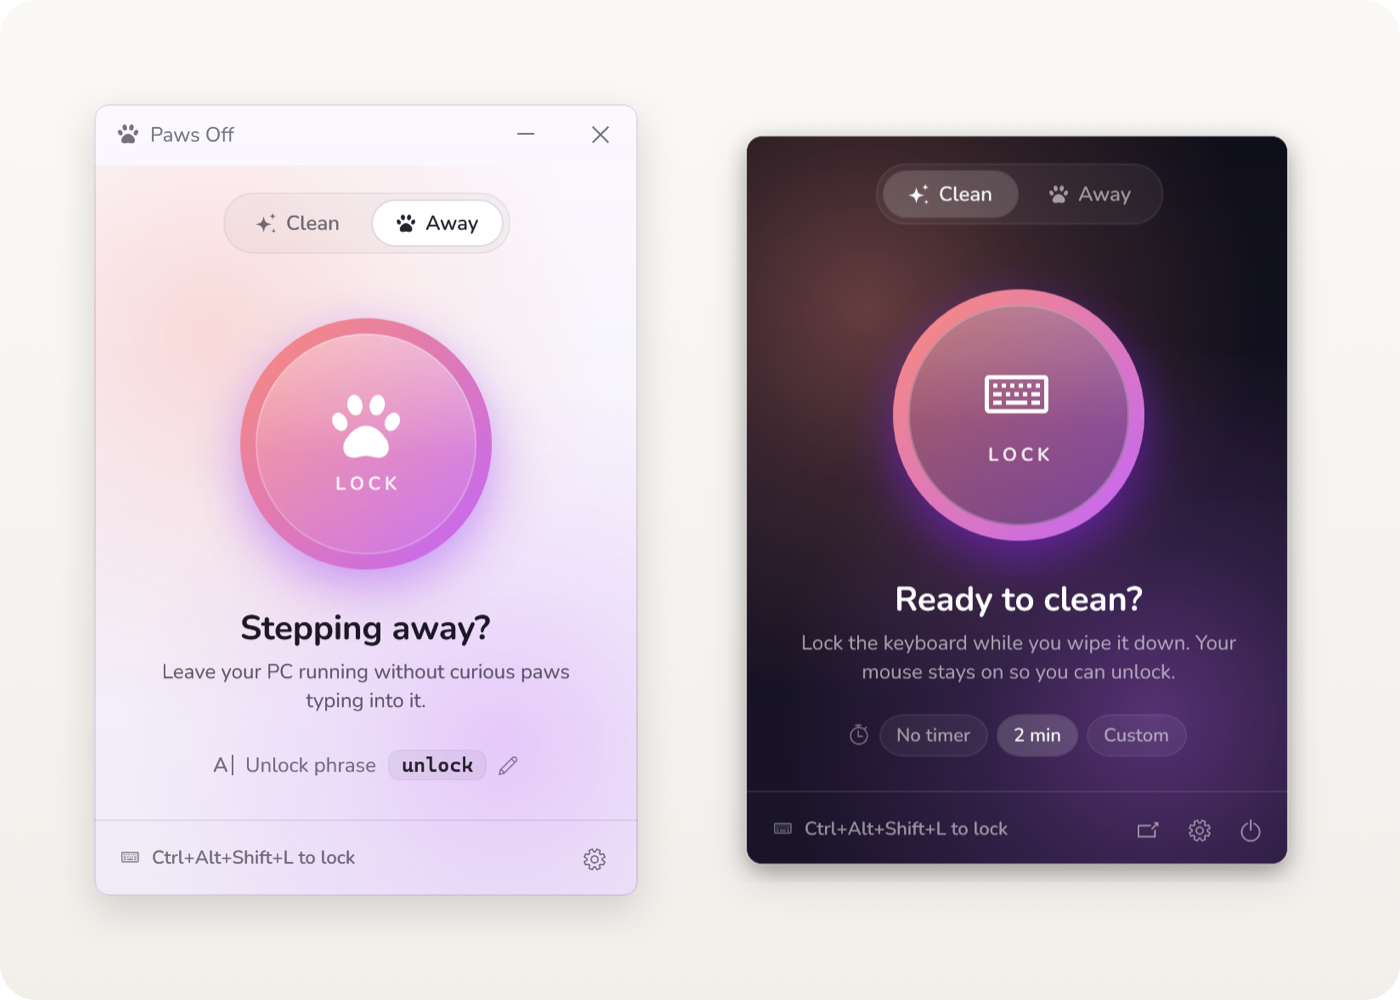
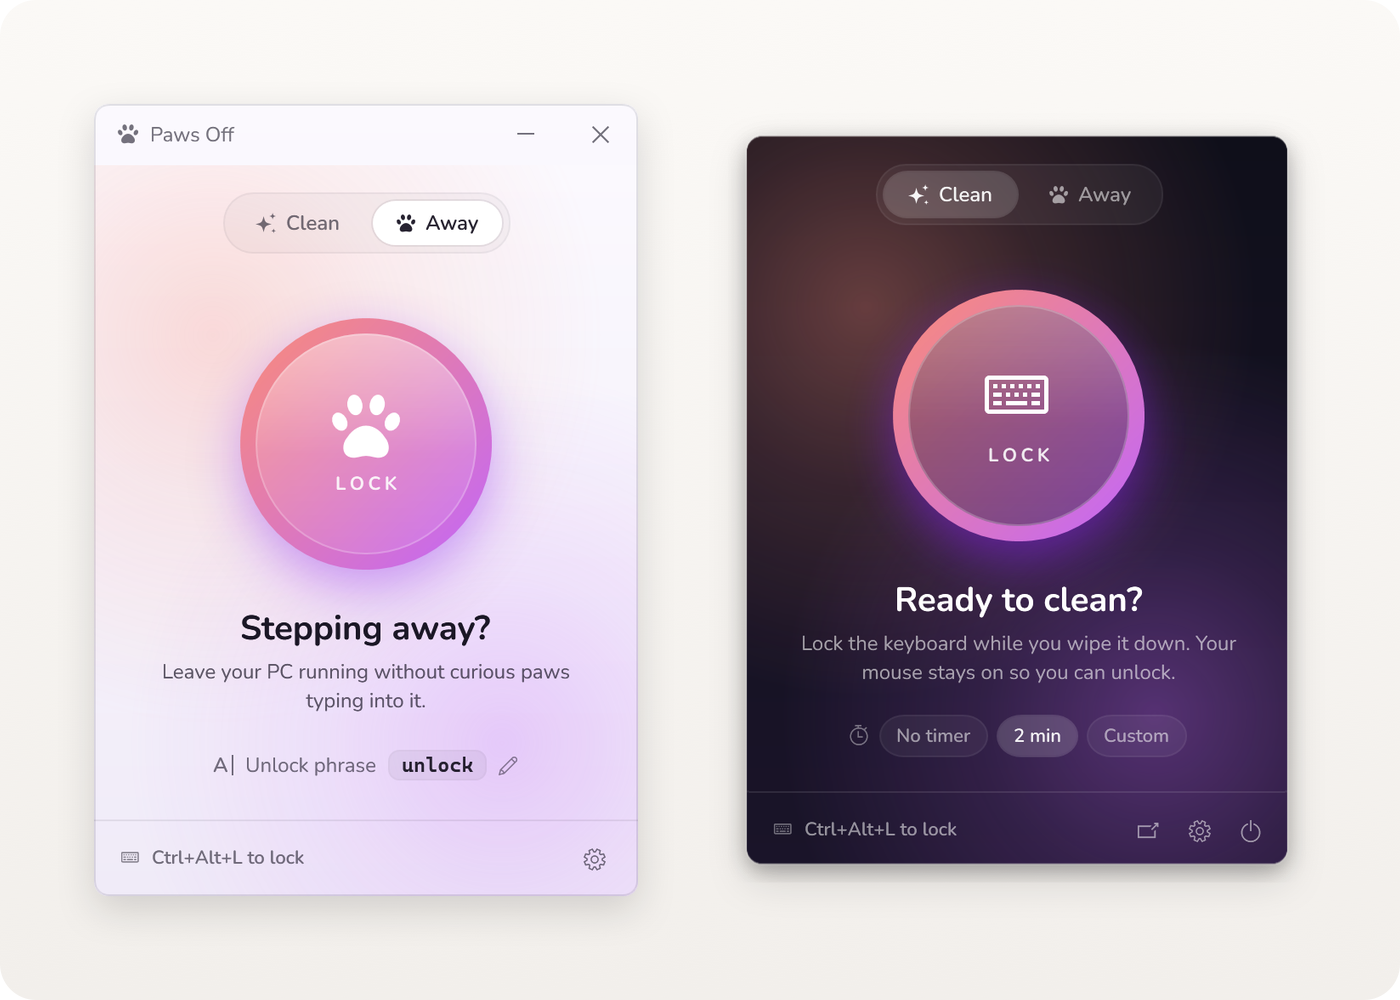
Notarized by Apple on the website and in the README; screenshots show the new shortcut

diff --git a/site/index.html b/site/index.html
@@ -62,6 +62,10 @@
   .dl small { color: rgba(255, 255, 255, .7); font-weight: 600; }
   @media (prefers-color-scheme: dark) { .dl { background: #F3F0F8; color: #1B1726; } .dl svg { fill: #1B1726; } .dl small { color: rgba(27, 23, 38, .6); } .dl.win { background: #0B63C9; color: #fff; } .dl.win svg { fill: #fff; } .dl.win small { color: rgba(255, 255, 255, .75); } }
   .or { color: var(--soft); font-size: 14px; margin-top: 22px; text-align: center; }
+  .trust { display: flex; align-items: center; justify-content: center; gap: 8px; margin: 16px 0 0; color: var(--soft); font-size: 15px; }
+  .trust svg { width: 18px; height: 18px; color: var(--coral); flex: none; }
+  .trust strong { color: var(--ink); }
+  .trust + .hint { margin-top: 4px; }
 
   .hero { margin: 36px auto 0; }
 
@@ -129,7 +133,7 @@
       </div>
       <div class="panel" id="p-mac" role="tabpanel">
         <div class="cmd"><code>curl -fsSL https://enigmaticzee.github.io/PawsOff/install.sh | bash</code><button>Copy</button></div>
-        <p class="hint">Paste into Terminal. It installs Paws Off into Applications and opens it, without the "Open Anyway" step (it isn't notarized by Apple yet). <a href="install.sh">See what the command does</a>.</p>
+        <p class="hint">Paste into Terminal. It installs Paws Off into Applications and opens it. <a href="install.sh">See what the command does</a>.</p>
       </div>
       <div class="panel" id="p-win" role="tabpanel" hidden>
         <div class="cmd"><code>irm https://enigmaticzee.github.io/PawsOff/install.ps1 | iex</code><button>Copy</button></div>
@@ -137,7 +141,7 @@
       </div>
       <div class="panel" id="p-brew" role="tabpanel" hidden>
         <div class="cmd"><code>brew install --cask enigmaticzee/tap/paws-off</code><button>Copy</button></div>
-        <p class="hint">Then open Paws Off once from Applications and click <strong>Open Anyway</strong> in System Settings → Privacy &amp; Security. Paws Off updates itself after that.</p>
+        <p class="hint">Then open Paws Off from Applications. It updates itself after that.</p>
       </div>
     </div>
     <p class="or">or download it</p>
@@ -145,7 +149,8 @@
       <a class="dl" href="https://github.com/EnigmaticZee/PawsOff/releases/latest/download/PawsOff-mac.dmg"><svg viewBox="0 0 24 24" aria-hidden="true"><path d="M16.37 12.6c-.03-2.7 2.2-4 2.3-4.07-1.26-1.83-3.21-2.08-3.9-2.11-1.66-.17-3.24.98-4.08.98-.85 0-2.14-.96-3.52-.93-1.81.03-3.48 1.05-4.41 2.67-1.88 3.26-.48 8.08 1.35 10.73.9 1.29 1.96 2.75 3.36 2.7 1.35-.05 1.86-.87 3.49-.87 1.63 0 2.09.87 3.51.84 1.45-.03 2.37-1.32 3.26-2.62 1.03-1.5 1.45-2.95 1.47-3.03-.03-.01-2.82-1.08-2.85-4.29zM13.7 4.67c.74-.9 1.24-2.15 1.11-3.39-1.07.04-2.36.71-3.13 1.61-.69.8-1.29 2.07-1.13 3.29 1.19.09 2.41-.61 3.15-1.51z"></path></svg>Download for Mac <small>.dmg</small></a>
       <a class="dl win" href="https://github.com/EnigmaticZee/PawsOff/releases/latest/download/PawsOff-Windows-Setup.exe"><svg viewBox="0 0 24 24" aria-hidden="true"><path d="M2 4.3l8.2-1.1v7.9H2zm9.2-1.3L22 1.5v9.6H11.2zM2 12.1h8.2V20L2 18.9zm9.2 0H22v9.4l-10.8-1.5z"></path></svg>Download for Windows <small>.exe</small></a>
     </div>
-    <p class="hint" style="text-align:center">Downloaded copies ask you to confirm once: on a Mac, <strong>System Settings → Privacy &amp; Security → Open Anyway</strong>; on Windows, <strong>More info → Run anyway</strong>. <a href="https://github.com/EnigmaticZee/PawsOff#-install">Step-by-step</a></p>
+    <p class="trust"><svg viewBox="0 0 24 24" aria-hidden="true"><polygon points="12.00,1.00 14.43,2.92 17.50,2.47 18.65,5.35 21.53,6.50 21.08,9.57 23.00,12.00 21.08,14.43 21.53,17.50 18.65,18.65 17.50,21.53 14.43,21.08 12.00,23.00 9.57,21.08 6.50,21.53 5.35,18.65 2.47,17.50 2.92,14.43 1.00,12.00 2.92,9.57 2.47,6.50 5.35,5.35 6.50,2.47 9.57,2.92" fill="currentColor" stroke="currentColor" stroke-width="1.6" stroke-linejoin="round"></polygon><path d="M8 12.4l2.7 2.7L16.2 9.6" fill="none" stroke="#fff" stroke-width="2.2" stroke-linecap="round" stroke-linejoin="round"></path></svg><span><strong>Notarized by Apple.</strong> The Mac app opens like any other app.</span></p>
+    <p class="hint" style="text-align:center">On Windows, SmartScreen may ask you to confirm once: <strong>More info → Run anyway</strong>. <a href="https://github.com/EnigmaticZee/PawsOff#-install">Step-by-step</a></p>
     <p class="meta">Free and open source · macOS 14+ (Apple Silicon &amp; Intel) · Windows 10 &amp; 11</p>
   </header>
 
@@ -192,6 +197,7 @@
         <li><strong>Nothing you type is stored or sent.</strong> While locked it remembers only the last few characters, just enough to spot your unlock word, and forgets them on unlock.</li>
         <li><strong>Paw detection counts keys, never reads them.</strong> It only looks at how many keys are held, and for how long.</li>
         <li><strong>One network request: the update check.</strong> It asks GitHub whether there's a newer version. You can turn it off.</li>
+        <li><strong>Notarized by Apple.</strong> Apple checks every Mac release for malicious software before you download it, and macOS checks again when you open it.</li>
         <li><strong>Open source.</strong> Every line is on <a href="https://github.com/EnigmaticZee/PawsOff">GitHub</a>, MIT licensed. Found a problem? See the <a href="https://github.com/EnigmaticZee/PawsOff/blob/main/SECURITY.md">security policy</a>.</li>
       </ul>
       <figure class="vault">

diff --git a/Tools/make-installer-art.swift b/Tools/make-installer-art.swift
@@ -80,10 +80,10 @@ func saveBMP(_ rep: NSBitmapImageRep, _ name: String) {
 
 // MARK: Mac DMG window. Finder places the icons at y = 200 from the top (Tools/dmg-settings.py).
 // Two versions:
-// - dmg-background: today's, 660 x 596. Below the drag arrow, a step-by-step guide to the one-time
-//   "Open Anyway" prompt (the app isn't notarized yet).
-// - dmg-background-notarized: the clean 660 x 400 window with no guide, for once the app is notarized
-//   (Tools/make-dmg.sh: NOTARIZED=1).
+// - dmg-background: 660 x 596, for builds that aren't notarized. Below the drag arrow, a step-by-step
+//   guide to the one-time "Open Anyway" prompt.
+// - dmg-background-notarized: the clean 660 x 400 window with no guide, used by releases
+//   (Tools/make-dmg.sh picks it whenever it notarizes).
 
 func paragraph(_ string: String, _ font: NSFont, _ color: NSColor, bold: [String] = [], align: NSTextAlignment = .left) -> NSAttributedString {
     let style = NSMutableParagraphStyle(); style.alignment = align; style.lineSpacing = 2

diff --git a/README.md b/README.md
@@ -109,30 +109,17 @@ curl -fsSL https://enigmaticzee.github.io/PawsOff/install.sh | bash
 irm https://enigmaticzee.github.io/PawsOff/install.ps1 | iex
 ```
 
-Each downloads the latest release from this page, installs it (just for you, no admin rights on Windows) and opens Paws Off, without the security prompts below. Curious what they do? Read [`install.sh`](site/install.sh) and [`install.ps1`](site/install.ps1); they're short. On a Mac, click **Grant Access** once to let it pause your keyboard.
+Each downloads the latest release from this page, installs it (just for you, no admin rights on Windows) and opens Paws Off, with no security prompts. Curious what they do? Read [`install.sh`](site/install.sh) and [`install.ps1`](site/install.ps1); they're short. On a Mac, click **Grant Access** once to let it pause your keyboard.
 
-Paws Off isn't signed with a paid Apple or Microsoft developer certificate yet, so if you download it the usual way, both systems ask you to confirm the first time you open it. It's open source: you can read every line, or [build it yourself](#%EF%B8%8F-development).
+The Mac app is signed with a Developer ID and notarized by Apple, so it opens like any other app. The Windows app isn't code-signed yet, so Windows asks you to confirm once when you run the installer. Both are open source: you can read every line, or [build it yourself](#%EF%B8%8F-development).
 
 ### 🍎 Mac
 
 1. **[Download PawsOff-mac.dmg](https://github.com/EnigmaticZee/PawsOff/releases/latest/download/PawsOff-mac.dmg)**, open it, and drag **Paws Off** into **Applications**. (Using Homebrew? See [below](#-homebrew).)
-2. **Open it once.** Double-click **Paws Off** in Applications. macOS says *"Paws Off" Not Opened*. Click **Done**.
-3. **Allow it.** Open **System Settings → Privacy & Security**, scroll down to **Security**, and next to *"Paws Off" was blocked* click **Open Anyway**. Enter your password, then click **Open Anyway** again.
-4. **Give it keyboard access.** In Paws Off, click **Grant Access**, then switch on **Paws Off** in **System Settings → Privacy & Security → Accessibility**.
+2. **Open it.** Double-click **Paws Off** in Applications. If macOS checks that you meant to open an app from the internet, click **Open**.
+3. **Give it keyboard access.** In Paws Off, click **Grant Access**, then switch on **Paws Off** in **System Settings → Privacy & Security → Accessibility**.
 
 From then on Paws Off starts in your menu bar: look for the 🐾 at the top of your screen.
-
-<details>
-<summary>Prefer Terminal? Skip steps 2–3 with one command</summary>
-<br>
-
-This removes the "downloaded from the internet" flag that macOS checks, for this app only:
-
-```sh
-xattr -dr com.apple.quarantine "/Applications/Paws Off.app"
-```
-
-</details>
 
 <details>
 <summary>The Accessibility switch is on, but nothing gets locked</summary>
@@ -150,7 +137,7 @@ Prefer the Terminal? Install with [Homebrew](https://brew.sh):
 brew install --cask enigmaticzee/tap/paws-off
 ```
 
-Then do steps 2–4 above once: open the app, click **Open Anyway**, and give it keyboard access. (The Terminal shortcut in the box above works here too.)
+Then do steps 2–3 above once: open the app and give it keyboard access.
 
 - **Updates:** Paws Off updates itself, so there's nothing to run. (`brew upgrade` skips it on purpose.)
 - **Uninstall:** `brew uninstall --cask paws-off`. Add `--zap` to remove its settings too.
@@ -189,12 +176,6 @@ No. It has to see key presses to block them, but it never records what you type:
 </details>
 
 <details>
-<summary><b>Why does macOS say "Paws Off" can't be opened?</b></summary>
-<br>
-Paws Off isn't notarized by Apple yet (that needs a paid developer account, and it's on the way). macOS asks you to confirm any app like that once: <b>System Settings → Privacy & Security → Open Anyway</b>. Or install with the <a href="#-quickest-one-line">one-line installer</a>, which skips the prompt.
-</details>
-
-<details>
 <summary><b>Why does the Mac version need Accessibility access?</b></summary>
 <br>
 macOS only lets apps with Accessibility access intercept keystrokes. Paws Off uses it only to drop key presses while locked and to notice the shortcut and paw patterns. Windows needs no permission.
@@ -227,10 +208,11 @@ Windows doesn't let normal apps block input to apps running with admin rights. E
 - [x] Lives in the menu bar (Mac) and system tray (Windows)
 - [x] Paw detection: locks itself when a paw lands on the keys
 - [x] Custom global shortcut
+- [x] Notarized by Apple (Mac)
 
 **Up next**
 
-- [ ] Signed and notarized builds, so there's no first-launch prompt
+- [ ] Signed Windows builds, so there's no SmartScreen prompt
 
 <br>
 

diff --git a/docs/TESTING.md b/docs/TESTING.md
@@ -6,9 +6,10 @@ minutes each. If anything ever gets stuck: click **Unlock**, or lock the compute
 Lock Screen; Windows: Ctrl+Alt+Delete → Lock), and Paws Off lets go.
 
 ## Install (fresh machine or user account if you can)
-- [ ] One-line installer (from the website) installs and opens the app, without an "Open Anyway" prompt.
+- [ ] One-line installer (from the website) installs and opens the app, without any prompt.
 - [ ] Mac: **Grant Access** → Accessibility switch on → the card switches to "Ready to clean?".
-- [ ] DMG path: drag to Applications, "Open Anyway", grant access: works too.
+- [ ] DMG path: drag to Applications and open it: at most macOS's "downloaded from the internet" check
+  (click **Open**), never "Not Opened" or "Open Anyway". Grant access: works too.
 - [ ] Windows installer path: SmartScreen "Run anyway", setup, app starts in the tray.
 
 ## Clean mode
